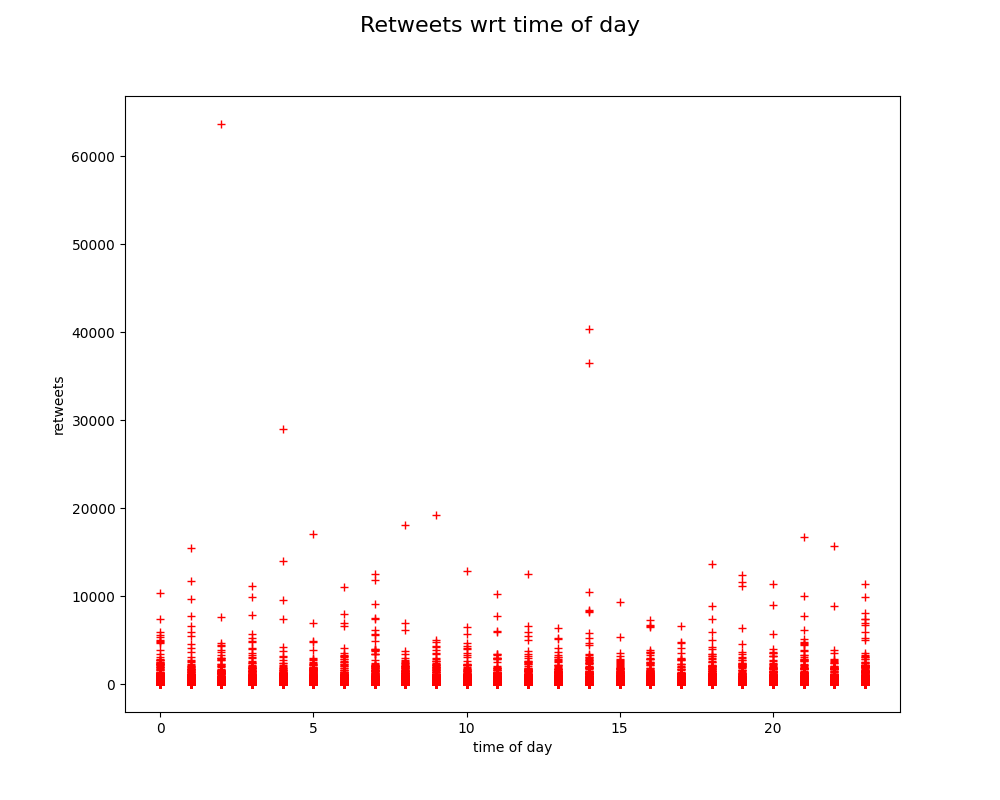
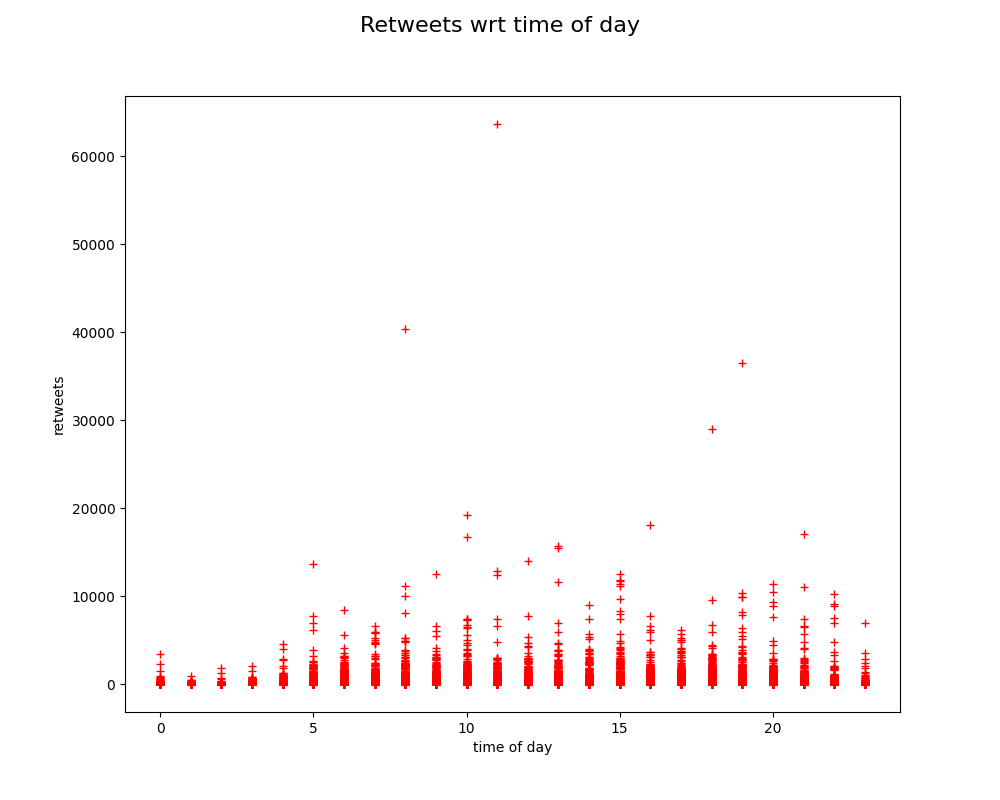
fixed implementation (unix millis and not unix seconds)

Changed region(s): [[0.155, 0.7188, 0.868, 0.8438], [0.248, 0.7188, 0.279, 0.75]]

diff --git a/code/pipeline.py b/code/pipeline.py
@@ -9,14 +9,14 @@ import numpy as np
 
 def unixSec2TOD(time : int):
 	"""convert time in unix seconds to time of day (hour)"""
-	secInDay = 86400
-	secInHour = 3600
+	secInDay = 86400 * 1000
+	secInHour = 3600 * 1000
 	return (time % secInDay) // secInHour
 
 def unixSec2DOW(time : int):
 	"""convert time in unix seconds to day of week (hour)"""
-	secInWeek = 604800
-	secInDay = 86400
+	secInWeek = 604800 * 1000
+	secInDay = 86400 * 1000
 	return (time % secInWeek) // secInDay
 
 def featurePipeline(X_train, X_test, test, drop=True):
